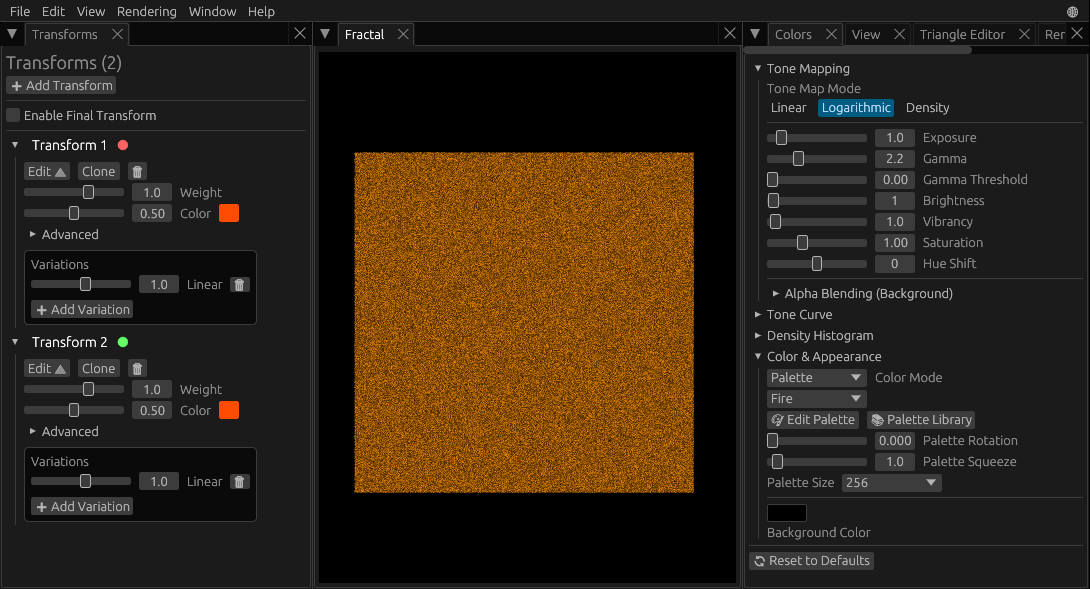
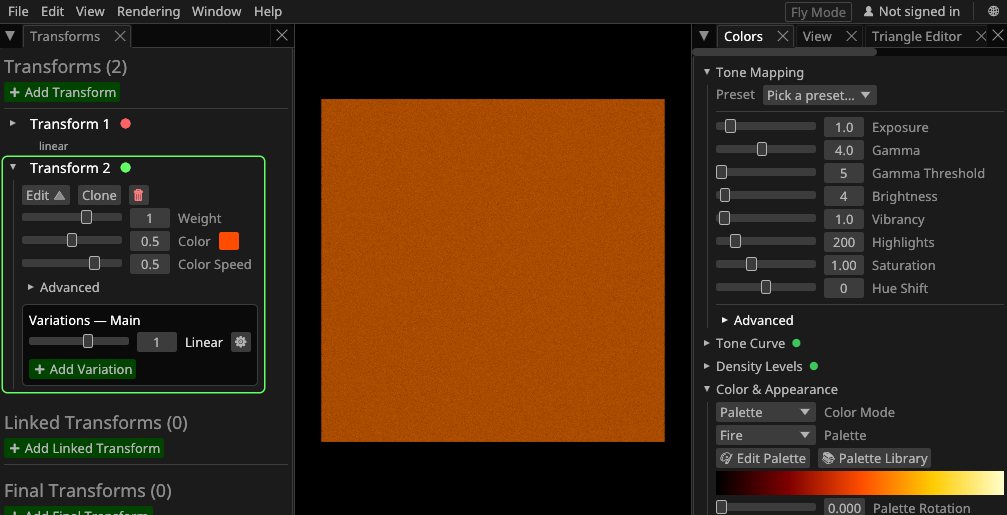
docs: tutorial updates

diff --git a/docs/tutorials/understanding-fractal-flames.md b/docs/tutorials/understanding-fractal-flames.md
@@ -22,7 +22,7 @@ That's enough theory for now, let's get started on actually making something.
 
 Load up FAE ([online version here](https://fractalsforall.com/editor/)).
 
-In the top menu, select File and then New. This will create a new fractal with a single transform. 
+In the top menu, select **File** and then **New**. This will create a new fractal with a single transform. 
 
 Then click the **Add Transform** button at the top of the Transforms panel on the left. You should now have two Transforms with the default settings (see image below).
 
@@ -32,7 +32,7 @@ Now we're going to modify the transformation affines so we get something other t
 
 > **Note**: If you make any mistakes, you can always use Ctrl-Z to Undo.  
 
-Click the **Edit 🔺** button under Transform 1 in the Transforms panel on the left. This will open the Triangle Editor with Transform 1 selected.
+Click **Transform 1** to expand that section in the Transforms panel on the left, then the **Edit 🔺** button. This will open the Triangle Editor with Transform 1 selected.
 
 In the **Quick Actions** below the triangles, click **>** twice to move the transform to the right by 0.2 units. Then click **Scale Down** twice, each time will shrink the transform by 10%. The fractal should now look something like the image below.
 
